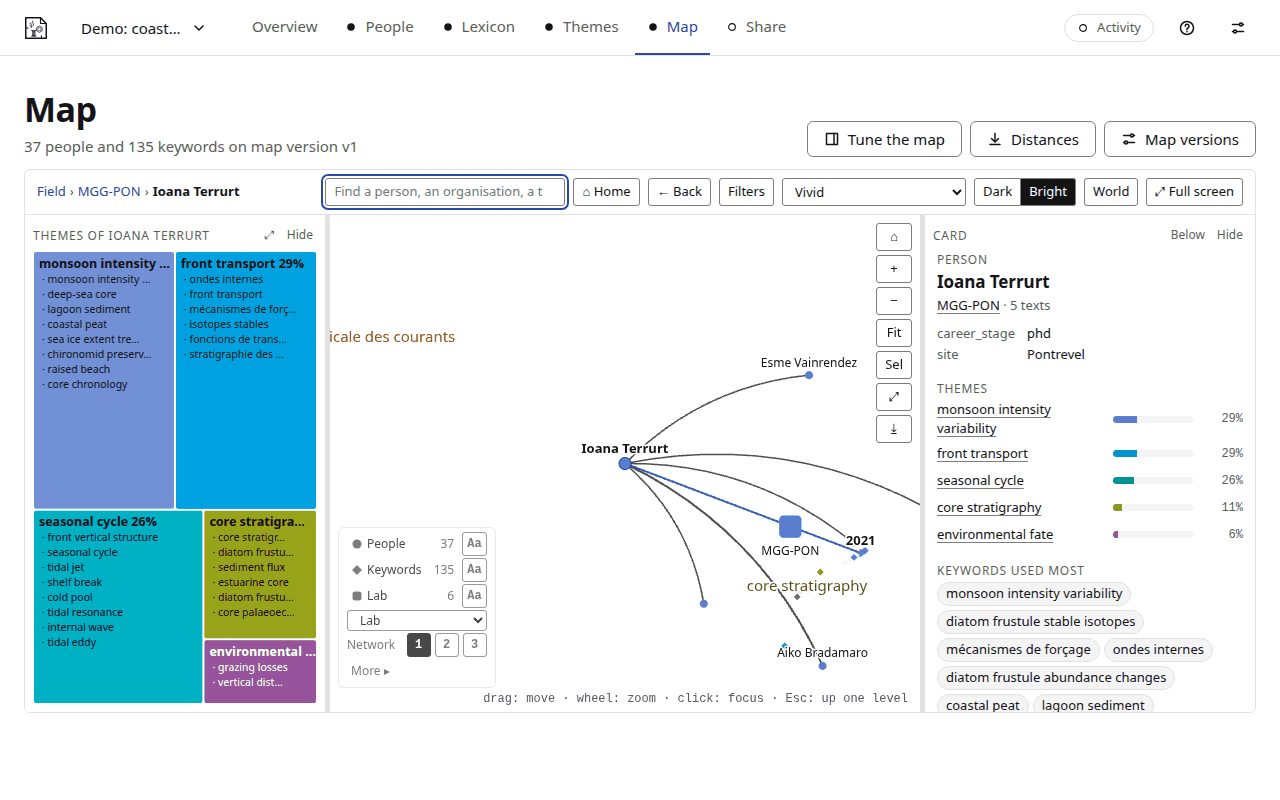
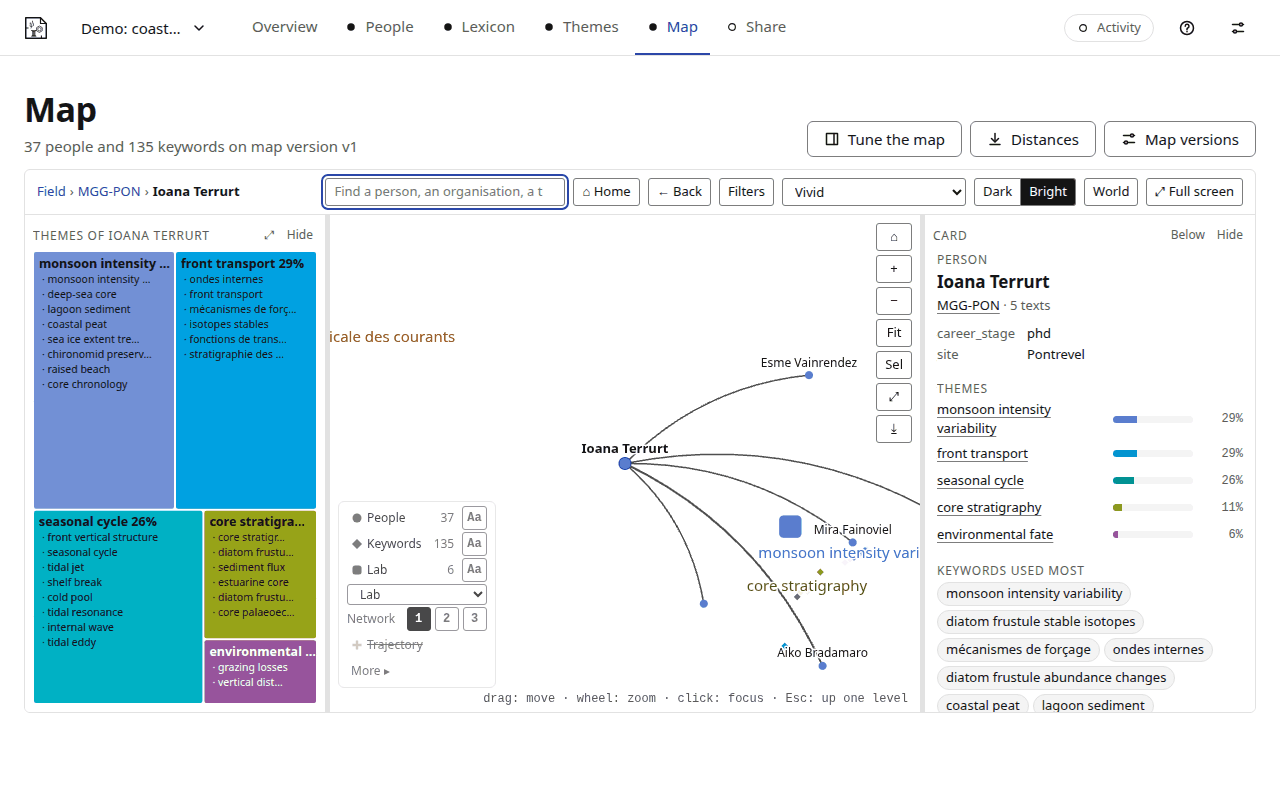
docs(map): the map versions and a map in space, pictured

diff --git a/tools/docs_screenshots.py b/tools/docs_screenshots.py
@@ -371,7 +371,9 @@ def map_screen(s: Shots) -> None:
     d.get_by_label("In space (3D)").check()
     d.get_by_role("button", name="Draw it", exact=True).click()
     s.wait_job()
-    page.wait_for_timeout(1500)
+    d.locator("[data-version='v2'] .cx-atlas-versions__trust").wait_for()
+    d.evaluate("e => e.querySelectorAll('*').forEach((x) => { x.scrollTop = 0; })")
+    page.wait_for_timeout(1000)
     s.shot("map-versions", d)
     page.keyboard.press("Escape")
     layout = page.get_by_label("Layout", exact=True)
@@ -380,6 +382,12 @@ def map_screen(s: Shots) -> None:
     page.wait_for_function(
         "() => document.querySelector('.cx-atlas-map__box').dataset.dimensions === '3'"
     )
+    # the whole map, fitted, without the toasts of the build
+    for close in page.locator(".cx-toast").get_by_role("button", name="Dismiss").all():
+        close.click()
+    page.locator(".cx-atlas-map__box").focus()
+    page.keyboard.press("0")
+    page.evaluate("document.activeElement.blur()")
     page.wait_for_timeout(2500)
     s.shot("map-3d")
     layout.select_option(index=0)

diff --git a/docs/tutorial-map.md b/docs/tutorial-map.md
@@ -56,11 +56,21 @@ draws it, and the distances, the exports and the themes' places come from it.
   redraw the map** or **Build it beside the pinned one** (the default for a
   map in space, which leaves the reference flat).
 
+```{image} images/map-versions.png
+:alt: The map versions: the pinned flat version and a version in space built beside it, each with its nearest kept and « Build it too »; below, « Try another layout », flat or in space, pinned or built beside.
+```
+
 ## A map in three dimensions
 
 A map version can be laid out in three dimensions (**Map versions**, **In
 space (3D)**): its places keep more of the distances than a flat
-map can, and groups that overlap on the flat map may stand apart. Everything
+map can, and groups that overlap on the flat map may stand apart.
+
+```{image} images/map-3d.png
+:alt: The map in three dimensions, chosen with « Layout »: the people and the themes' names in space, with Turn and Front among the map's buttons.
+```
+
+Everything
 of the flat map works on it: the layers, the selection and what it lights,
 the co-authors' lines, the names, Find, the filters, the colours, Save the
 view (the picture as it is turned on screen).
